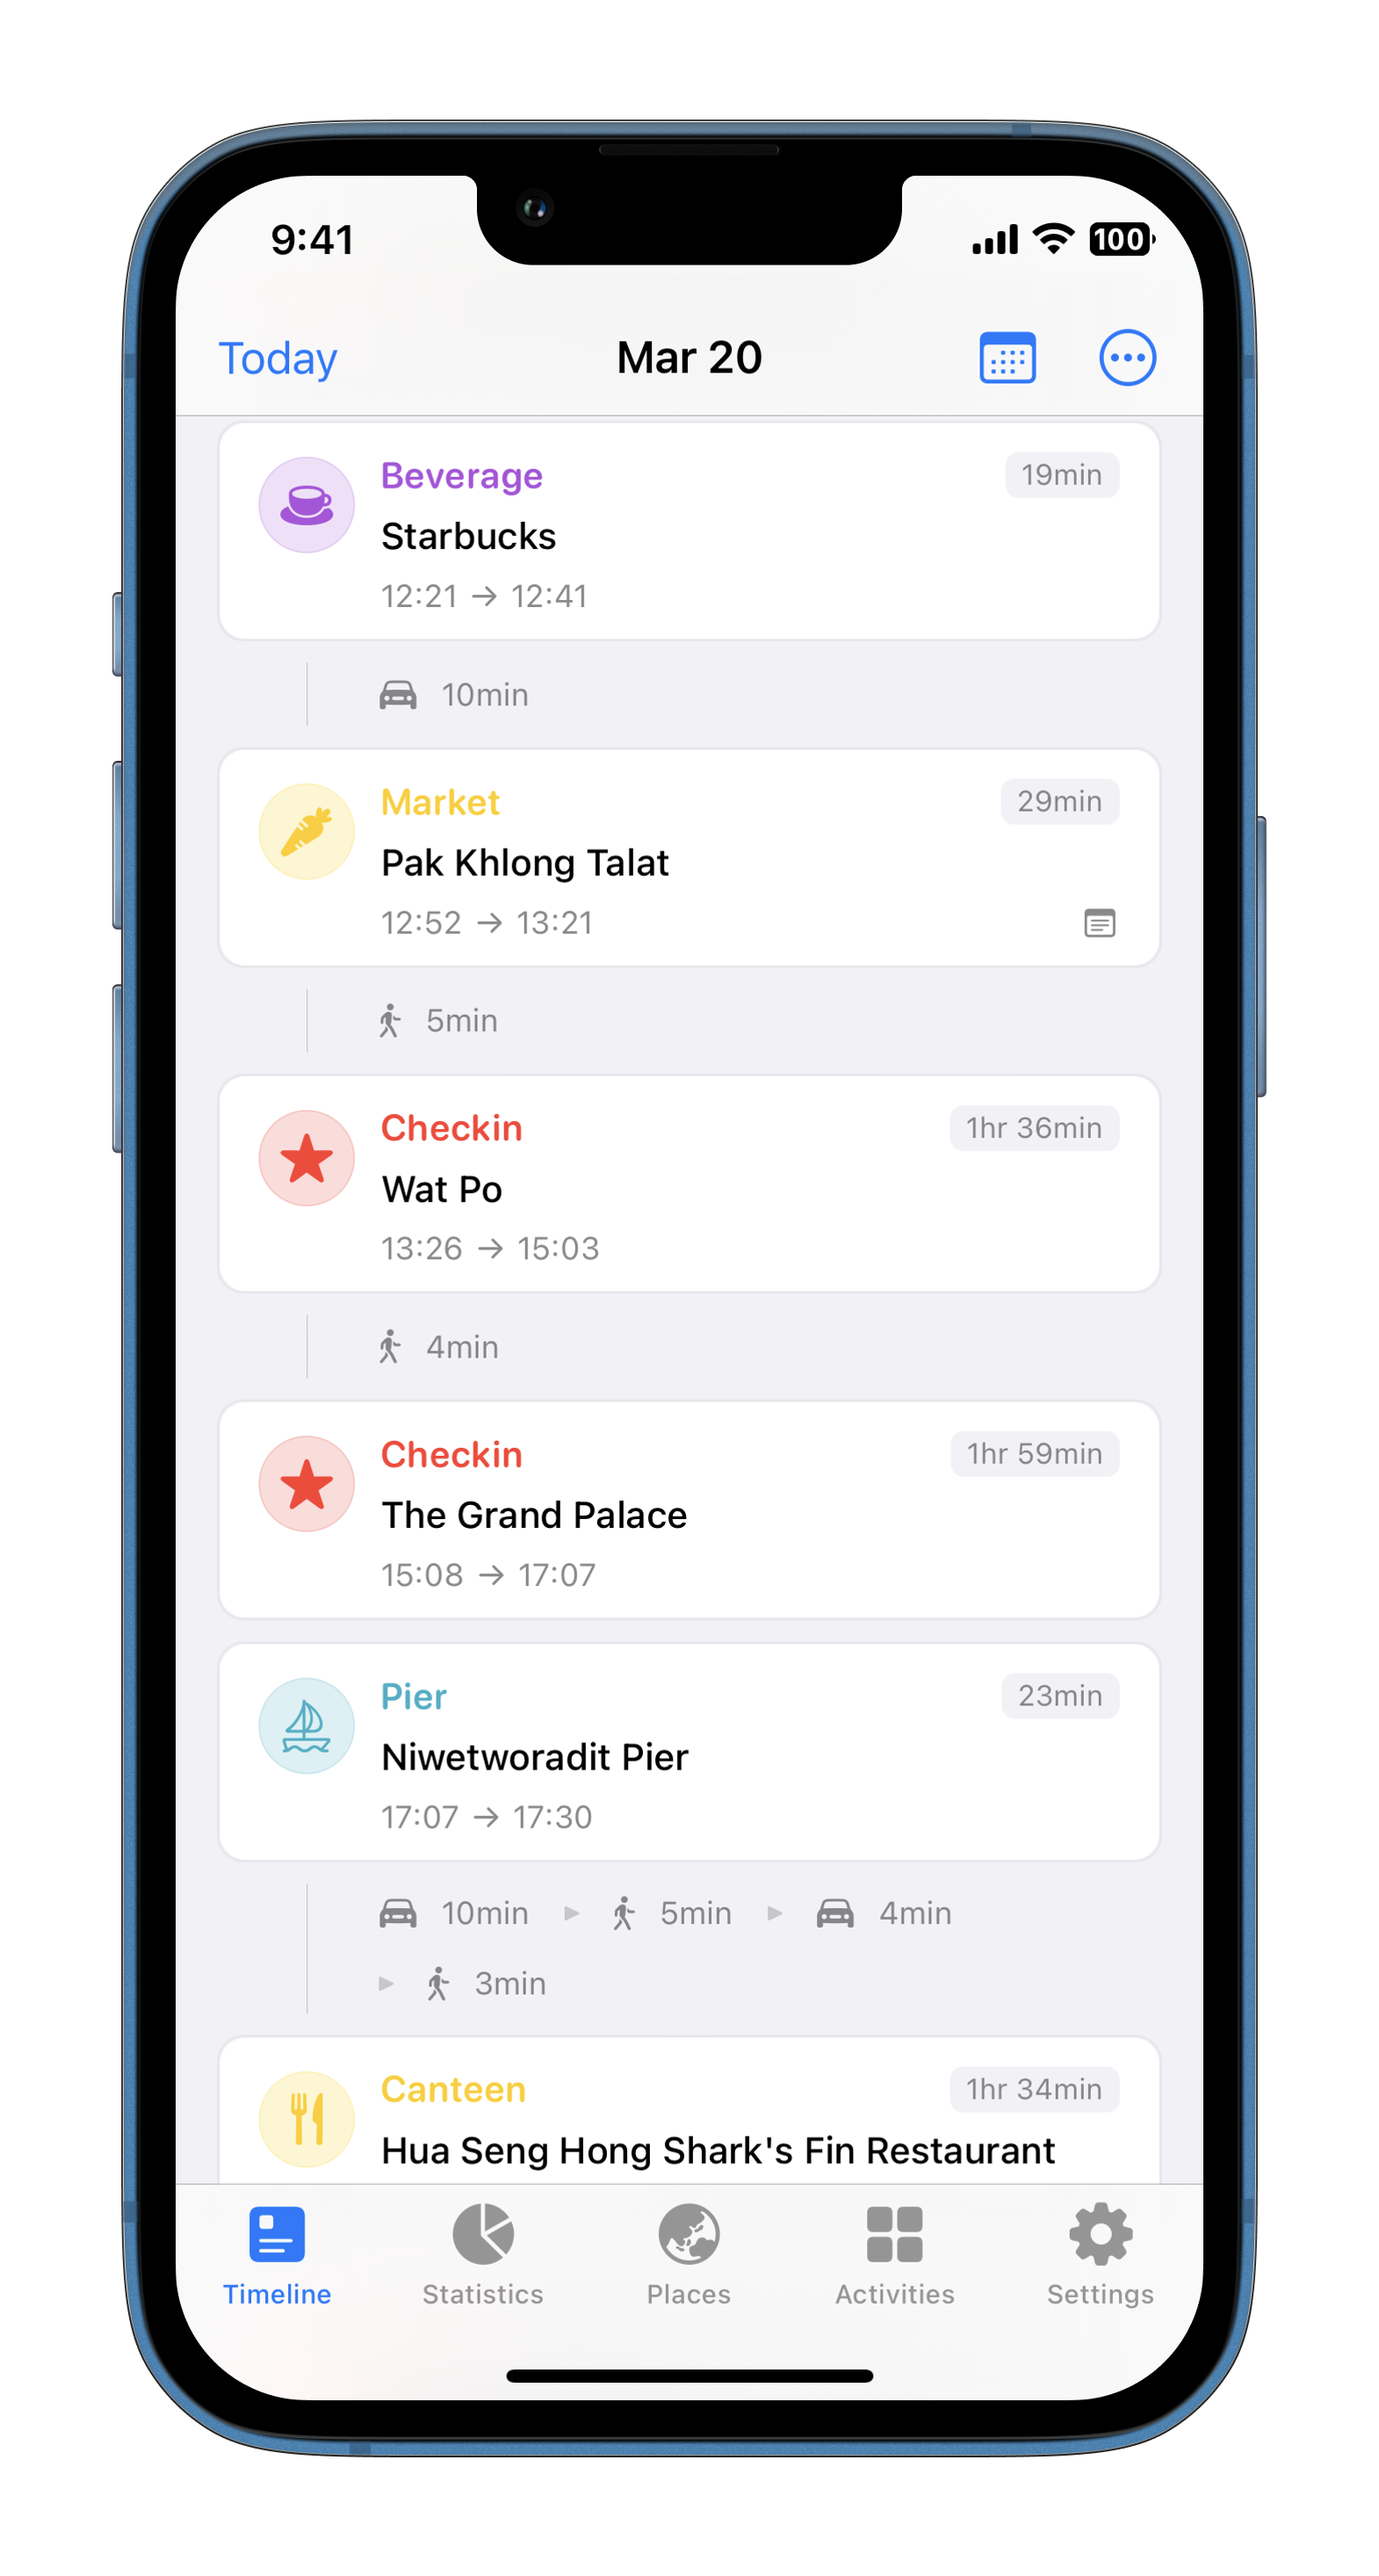
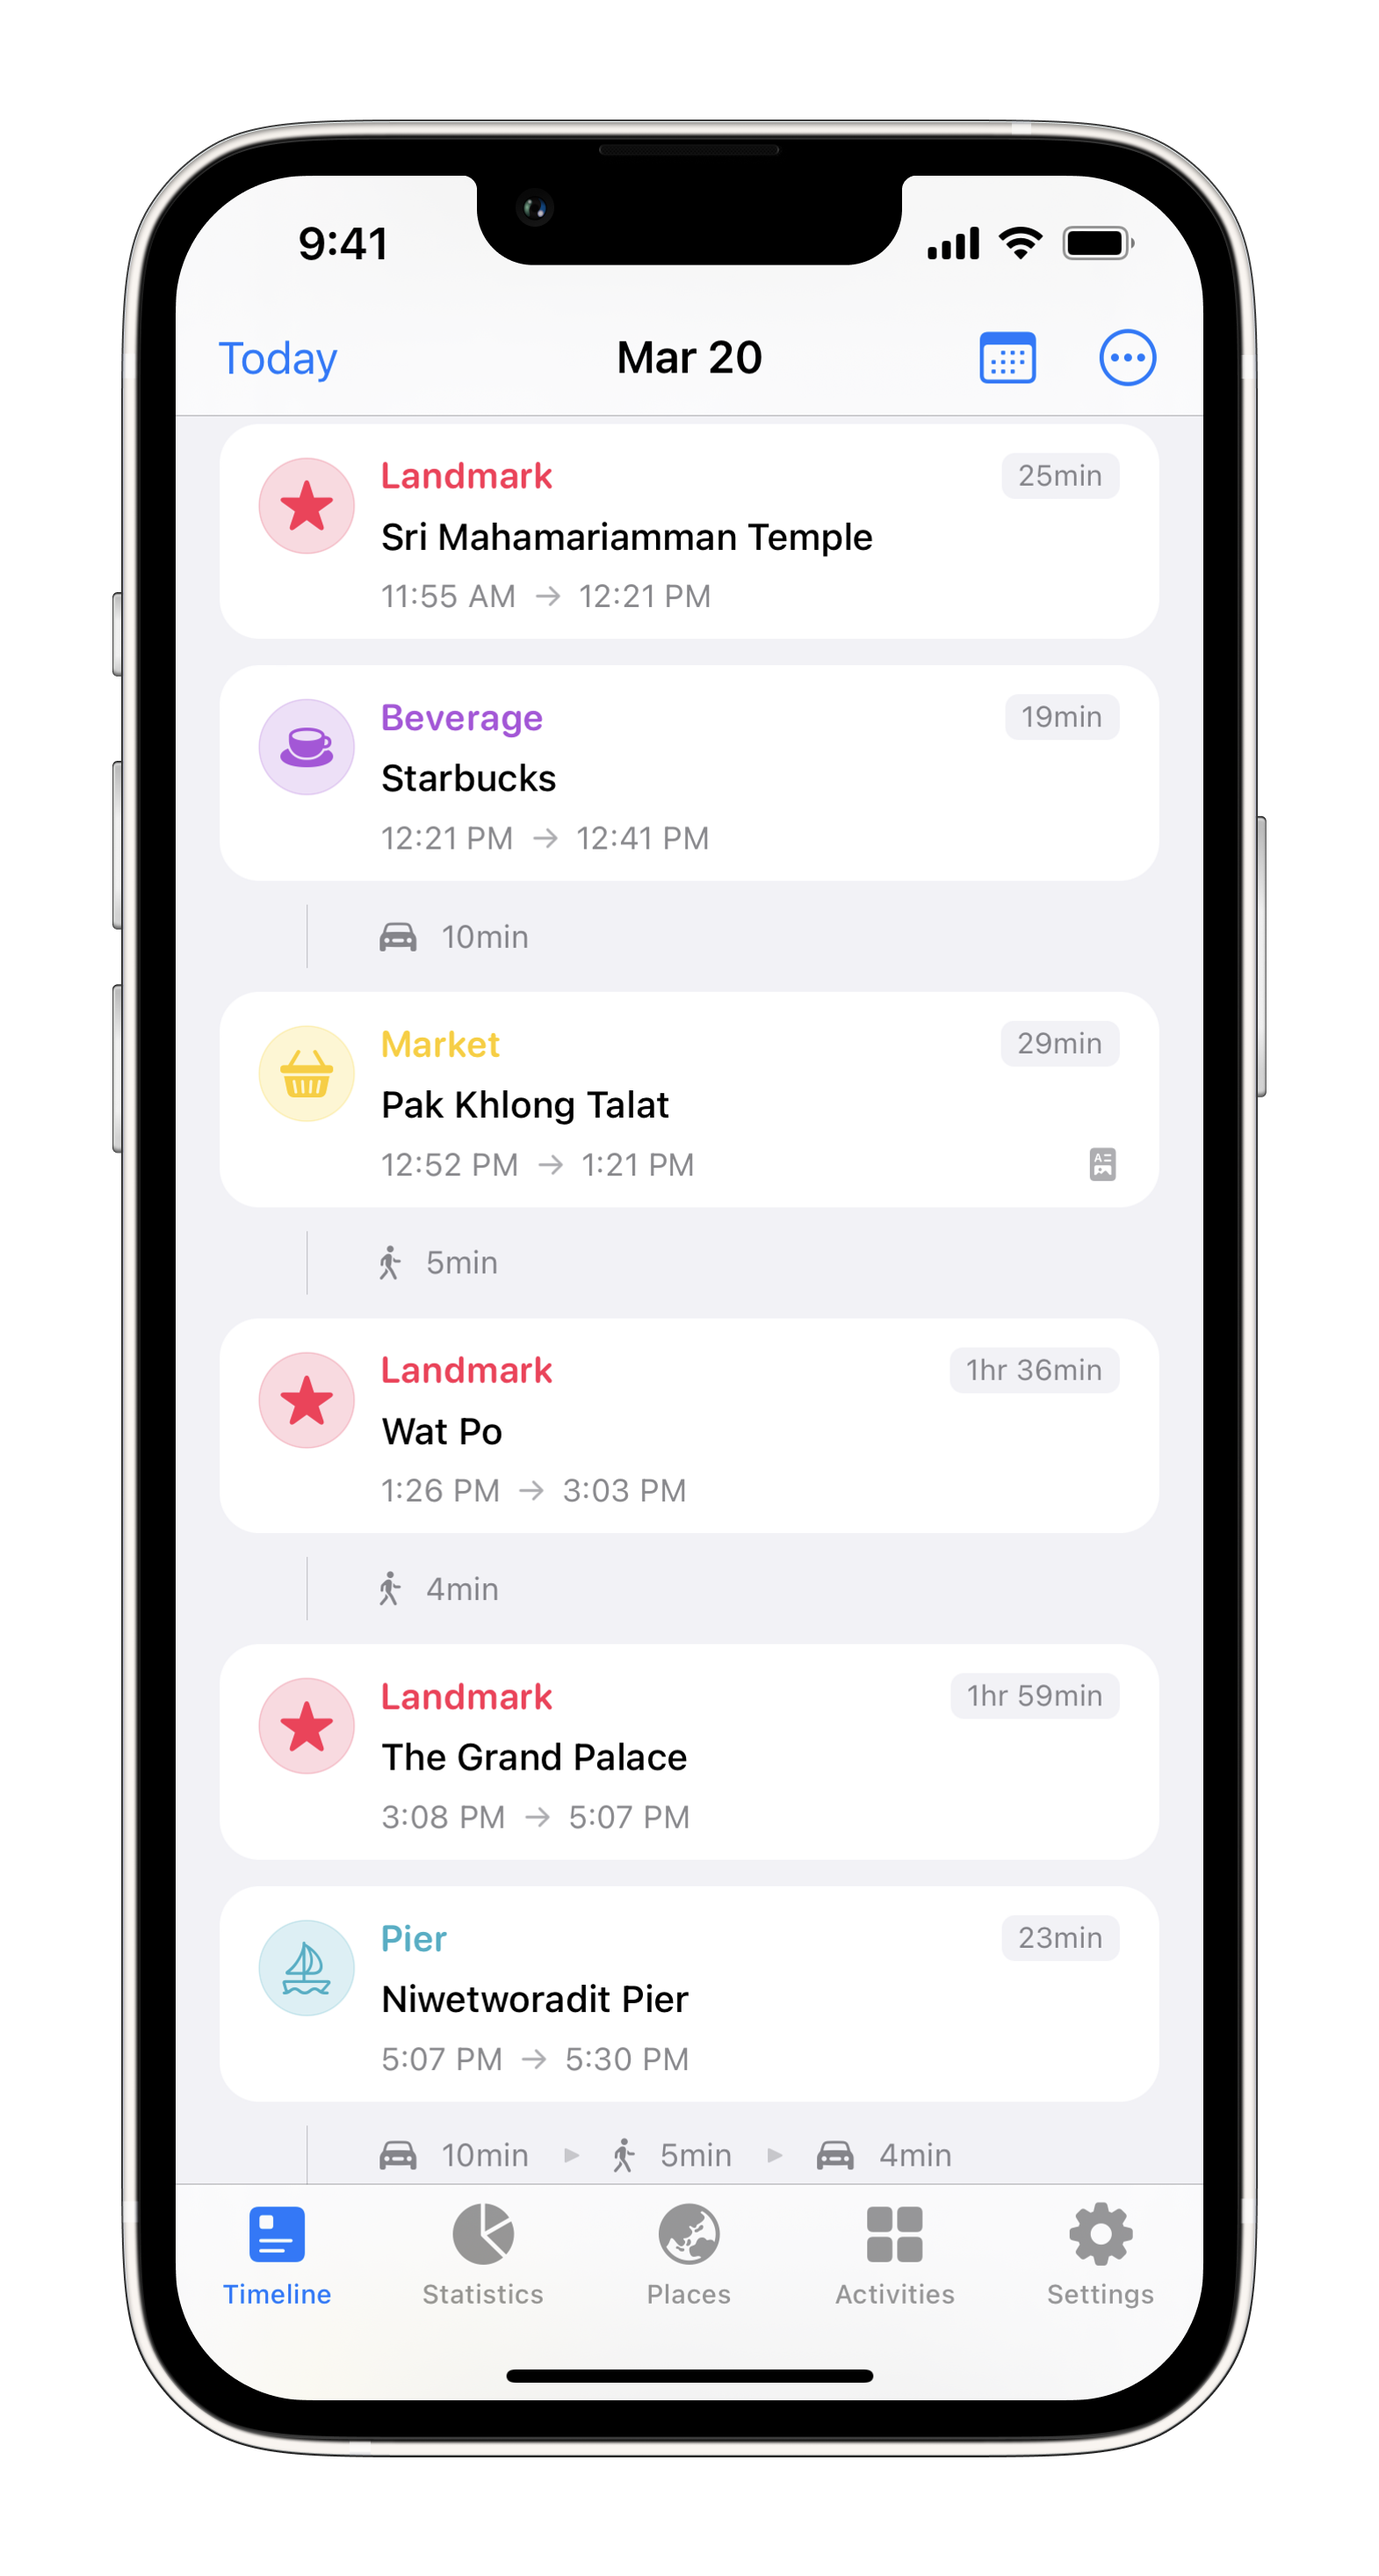
Update screenshots

diff --git a/src/components/HomeOne/FeaturesHomeOne.js b/src/components/HomeOne/FeaturesHomeOne.js
@@ -1,5 +1,5 @@
 import React, { useState } from 'react';
-import donut from '../../assets/images/2-1_iphone13blue_portrait.png';
+import timeline from '../../assets/images/1_iphone13blue_portrait.png';
 import donutMore from '../../assets/images/2-2_iphone13blue_portrait.png';
 import chart from '../../assets/images/4_iphone13blue_portrait.png';
 import notes from '../../assets/images/7_iphone13blue_portrait.png';
@@ -35,7 +35,7 @@ function FeaturesHomeOne({ className }) {
                                     aria-controls="v-pills-home"
                                     aria-selected="true"
                                 >
-                                    <i className="fas fa-robot" /> Automatic Logging
+                                    <i className="fas fa-robot" /> Auto-Logging
                                 </a>
                                 <a
                                     onClick={(e) => handleClick(e, '2')}
@@ -59,7 +59,7 @@ function FeaturesHomeOne({ className }) {
                                     aria-controls="v-pills-messages"
                                     aria-selected="false"
                                 >
-                                    <i className="fas fa-chart-pie" /> Statistics
+                                    <i className="fas fa-chart-pie" /> Insightful Statistics
                                 </a>
                                 <a
                                     onClick={(e) => handleClick(e, '4')}
@@ -71,7 +71,7 @@ function FeaturesHomeOne({ className }) {
                                     aria-controls="v-pills-settings"
                                     aria-selected="false"
                                 >
-                                    <i className="fas fa-lock" /> Privacy First
+                                    <i className="fas fa-lock" /> Privacy Matters
                                 </a>
                             </div>
                         </div>
@@ -91,7 +91,7 @@ function FeaturesHomeOne({ className }) {
                                             data-wow-duration="2000ms"
                                             data-wow-delay="200ms"
                                         >
-                                            <img src={donut} height={600} alt="" />
+                                            <img src={timeline} height={600} alt="" />
                                         </div>
                                     </div>
                                     <div className="col-lg-6">
@@ -100,7 +100,7 @@ function FeaturesHomeOne({ className }) {
                                             data-wow-duration="2000ms"
                                             data-wow-delay="600ms"
                                         >
-                                            <span>Automatic log</span>
+                                            <span>Auto-Logging</span>
                                             <h3 className="title">
                                                 Track your itinerary. Automatically.
                                             </h3>
@@ -168,7 +168,7 @@ function FeaturesHomeOne({ className }) {
                                             data-wow-duration="2000ms"
                                             data-wow-delay="600ms"
                                         >
-                                            <span>Rich Statistics</span>
+                                            <span>Insightful Statistics</span>
                                             <h3 className="title">Visualize your activities.</h3>
                                             <p>
                                                 Learn what your life is made of through data
@@ -200,7 +200,7 @@ function FeaturesHomeOne({ className }) {
                                             data-wow-duration="2000ms"
                                             data-wow-delay="600ms"
                                         >
-                                            <span>Privacy First</span>
+                                            <span>Privacy Matters</span>
                                             <h3 className="title">Your data belongs to you.</h3>
                                             <p>
                                                 Rond values your privacy, especially when it comes

diff --git a/src/components/HomeOne/FaqHomeOne.js b/src/components/HomeOne/FaqHomeOne.js
@@ -54,9 +54,9 @@ function FaqHomeOne({ className }) {
                                                     <p>
                                                         Rond then records this information and
                                                         associates it with the places you've already
-                                                        marked in the app. If you haven't marked any
-                                                        places yet, Rond will create a new one for
-                                                        you and prompt you to mark your activity.
+                                                        marked in the app. If there isn't a good
+                                                        match, Rond will create a new one for you
+                                                        and prompt you to mark the activity there.
                                                     </p>
                                                 </div>
                                             </div>

diff --git a/src/components/HomeOne/HeroHomeOne.js b/src/components/HomeOne/HeroHomeOne.js
@@ -1,5 +1,5 @@
 import React from 'react';
-import heroThumbOne from '../../assets/images/1_iphone13blue_portrait.png';
+import heroThumbOne from '../../assets/images/2-1_iphone13blue_portrait.png';
 import shapeFour from '../../assets/images/shape/shape-4.png';
 import shapeThree from '../../assets/images/shape/shape-3.png';
 import shapeTwo from '../../assets/images/shape/shape-2.png';
